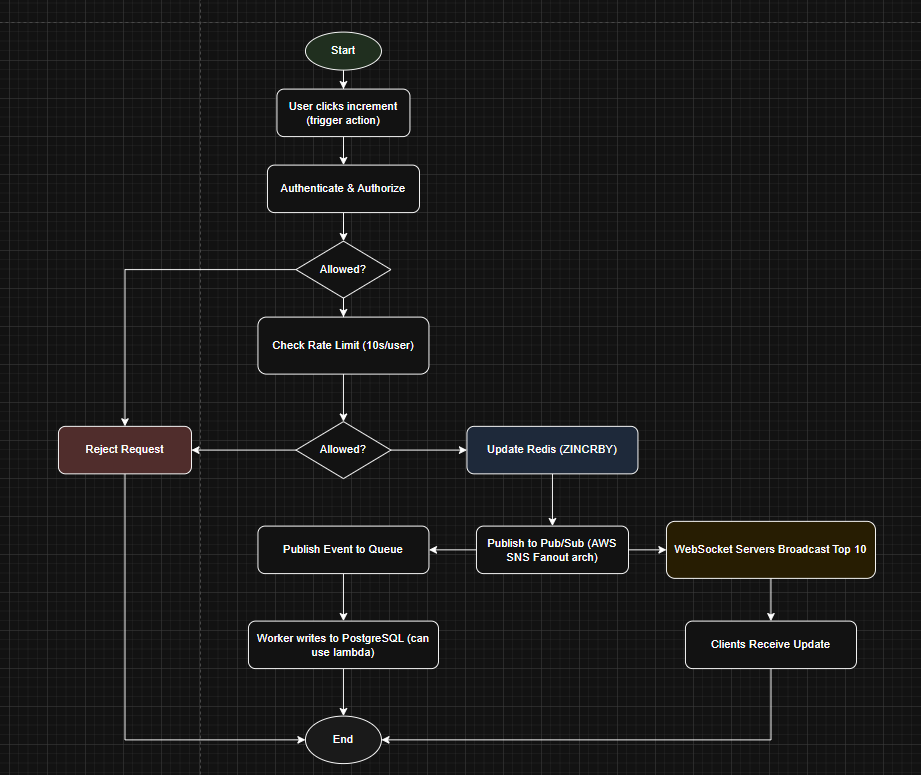
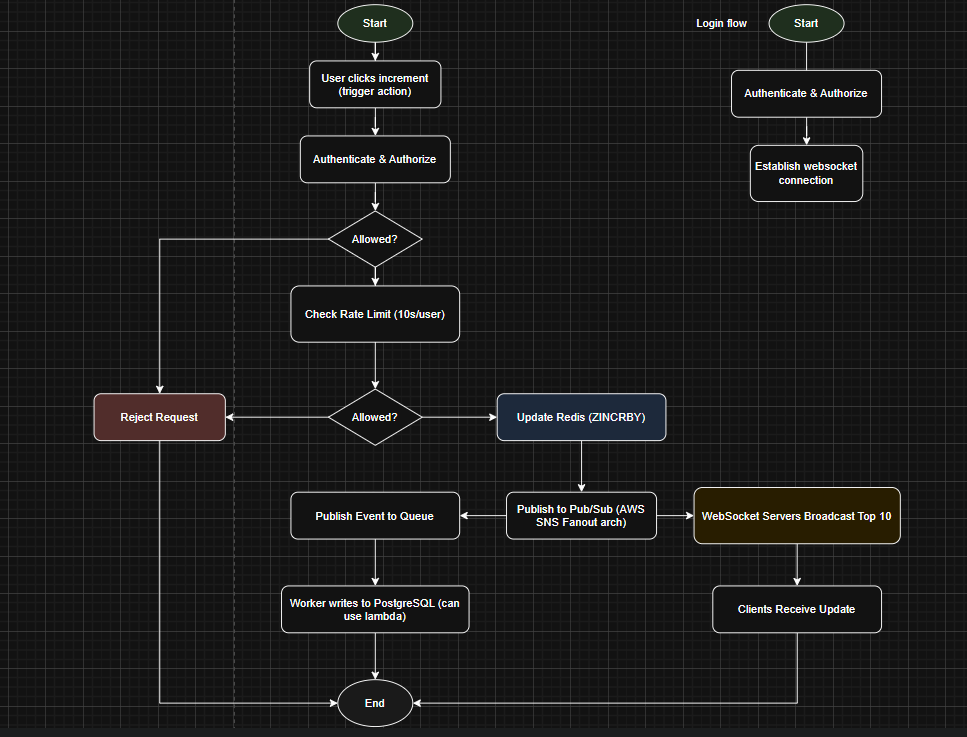
feat: patch for problem 6 - leaderboard system add sql schema design add backend interface design add logic flow in the schema design add techstack and expected performance in the readme Co-authored-by: Thanh Nguyen <chi-thanh.nguyen@socotec.com>

diff --git a/src/problem6/backend.interface.ts b/src/problem6/backend.interface.ts
@@ -1,0 +1,47 @@
+// User authentication and management
+interface UserService {
+  authenticate(username: string, password: string): User | null
+  getUserById(userId: number): User | null
+  createUser(username: string, email: string, password: string): User
+}
+
+// Score management
+interface ScoreService {
+  getScore(userId: number): number
+  incrementScore(userId: number, delta: number): void
+  getTopNUsers(n: number): Array<{ userId: number, score: number }>
+}
+
+// Event logging for durability and analytics
+interface ScoreEventService {
+  logEvent(userId: number, delta: number, eventType: string): void
+  getEventsForUser(userId: number): Array<ScoreEvent>
+}
+
+// Leaderboard snapshotting (optional)
+interface LeaderboardSnapshotService {
+  saveSnapshot(data: any): void
+  getLatestSnapshot(): any
+}
+
+// WebSocket broadcasting
+interface WebSocketBroadcastService {
+  broadcastLeaderboardUpdate(leaderboard: Array<{ userId: number, score: number }>): void
+  sendUserNotification(userId: number, message: string): void
+}
+
+// Example data types
+type User = {
+  id: number
+  username: string
+  email: string
+  // ...other fields
+}
+
+type ScoreEvent = {
+  id: number
+  userId: number
+  delta: number
+  eventType: string
+  createdAt: Date
+}

diff --git a/src/problem6/README.md b/src/problem6/README.md
@@ -1,6 +1,50 @@
 
 # Problem 6 - Scoreboard System Specification
 
+### Software Requirements
+
+1. We have a website with a score board, which shows the top 10 user’s scores.
+2. We want live update of the score board.
+3. User can do an action (which we do not need to care what the action is), completing this action will increase the user’s score.
+4. Upon completion the action will dispatch an API call to the application server to update the score.
+5. We want to prevent malicious users from increasing scores without authorization.
+
+### Idea
+
+With the current implementation below, the CCU numbers will mostly base on the scale for the websocket service.
+
+We will try to distribute the event through a pub/sub model, so its can reduce the load needed to websocket service.
+
+Roughly this can handle 10,000 concurrent users per service instance (without scaling), assuming typical server specs:
+
+- 2–4 vCPUs
+- 4–8 GB RAM
+- Optimized Node.js WebSocket server (e.g., ws or socket.io)
+- Proper OS/network tuning (file descriptors, keepalive, etc.)
+
+Actual capacity may vary based on message frequency, code efficiency, and network conditions.
+
+### Techstack
+
+**Backend:**
+- Node.js (Express or Fastify for API service) for fast iops operation
+- Redis (real-time data store, Pub/Sub)
+- PostgreSQL (durable storage)
+- WebSocket (ws or socket.io for real-time updates)
+- AWS SQS/SNS/EventBridge (for event-driven communication)
+- Docker (containerization)
+
+**Frontend:**
+- React.js (leaderboard UI)
+- WebSocket client (native or socket.io-client)
+- Axios or Fetch API (for HTTP requests)
+
+**Infrastructure/DevOps:**
+- AWS (EC2, Fargate, Elasticache for Redis, RDS for PostgreSQL, SQS/SNS/EventBridge)
+- Nginx (reverse proxy, load balancing)
+- Terraform or AWS CDK (infrastructure as code)
+- GitHub Actions (CI/CD)
+
 ## A. Functional Requirements
 - Display the top 10 users’ scores
 - Support real-time updates for all connected users
@@ -42,8 +86,8 @@
  - Displays the top 10 leaderboard
  - Connects to backend using WebSocket (preferred) or polling
  - Sends score increment requests
- - Applies client-side rate limiting (1 request per 10 seconds)
- - Updates UI in real time when receiving new data
+ - Applies client-side rate limiting (1 request per 10 seconds per user)
+ - Updates UI in real time when receiving new data if changed
 
 ### D.2 Backend API (Stateless)
  - Receive score update requests
@@ -52,6 +96,7 @@
  - Update score in Redis using atomic operations
  - Publish events for asynchronous persistence
  - Broadcast leaderboard updates via a pub/sub mechanism, then broadcast with WebSocket
+ - Implemented with microservice: api service, postgres worker service and websocket service
 
 **Key Design Choices:**
  - No locking is required; Redis operations are atomic
@@ -80,22 +125,24 @@
 #### Pros
  - Redis is always up-to-date due to write-first design
  - Cache misses only occur during cold start or failure recovery
+ - Data is backup into Postgres in case of restart or Redis crashed
 
 #### Cons
  - Redis can only be scale vertical, else we will need a strategy to sync between redis instance if scale
- - PostgreSQL is updated asynchronously, need a strategy to prevent data loss
+ - PostgreSQL is updated asynchronously, can cause data loss
 
 ## F. Security
  - Authenticate all API requests
  - Authorize score updates for valid users only
  - Rate limiting is enforced on both client and server
- - Input validation is applied to all incoming requests
+ - Input validation is applied to all incoming requests (normally support by library)
 
 ## G. Infrastructure
 
 ### G.1 API Layer
- - Stateless services behind a load balancer
- - Scales horizontally based on CPU and request rate
+ - Stateless services behind a load balancer (for api and websocket server mainly)
+ - Scales horizontally, normally based on CPU and request rate, number of message base for the websocket
+ - If scaling is not productive for the realtime category, can use serverless with AWS Fargate
 
 ### G.2 Redis
  - Managed service (cluster mode recommended)
@@ -103,11 +150,11 @@
 
 ### G.3 PostgreSQL
  - Managed database service
- - Scales vertically and with read replicas
+ - Scales vertically and with read replicas (if needed)
  - Tuned based on IOPS and CPU usage
 
 ### G.4 CDN (Optional)
- - Used for serving static frontend assets
+ - Used for serving static frontend assets, serve globally users
  - Can cache leaderboard responses with short TTL if slight delay is acceptable
 
 ---
@@ -115,7 +162,7 @@
 ## H. Scaling Strategy (AWS preferred)
  - API servers scale horizontally with traffic
  - Redis scales via sharding when memory or throughput limits are reached
- - PostgreSQL scales via increased IOPS and read replicas
+ - PostgreSQL scales via increased IOPS throughput and read replicas
  - WebSocket layer scales using pub/sub distribution
  - Use SNS Fan-out to public the topic after redis update
     For update to Postgres, can use lambda as worker
@@ -129,7 +176,7 @@
  - Rebuild leaderboard from PostgreSQL snapshot or event logs
 
 ### I.2 Queue Failure
- - Use durable messaging with retry support
+ - Use durable messaging with retry support (dead letter queue)
 
 ### I.3 Database Failure
  - Retry writes through worker
